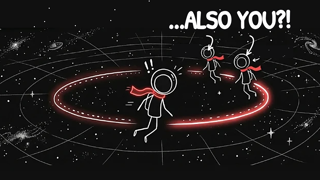
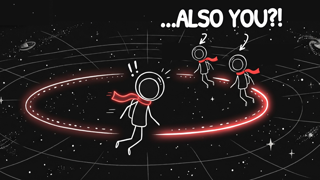
Ep7 backup thumbnail G final from the full-res original
Claude-Session: https://claude.ai/code/session_01QZBGd8qH4EfV1MNE2nHfnB

diff --git a/thumbnails-source/also_you_label.html b/thumbnails-source/also_you_label.html
@@ -3,6 +3,6 @@
 const c=document.getElementById('c'),x=c.getContext('2d');const img=new Image();img.src='clean.png';
 function T(s,X,Y,size,col){x.font=size+'px "PH"';x.textAlign='center';x.textBaseline='middle';x.lineJoin='round';x.lineWidth=size*0.22;x.strokeStyle='#101011';x.strokeText(s,X,Y);x.lineWidth=size*0.06;x.strokeStyle=col;x.strokeText(s,X,Y);x.fillStyle=col;x.fillText(s,X,Y);}
 function arrow(x1,y1,x2,y2){x.strokeStyle='#fff';x.lineWidth=7;x.lineCap='round';const mx=(x1+x2)/2+60,my=(y1+y2)/2-40;x.beginPath();x.moveTo(x1,y1);x.quadraticCurveTo(mx,my,x2,y2);x.stroke();const a=Math.atan2(y2-my,x2-mx);x.beginPath();x.moveTo(x2,y2);x.lineTo(x2-30*Math.cos(a-0.45),y2-30*Math.sin(a-0.45));x.moveTo(x2,y2);x.lineTo(x2-30*Math.cos(a+0.45),y2-30*Math.sin(a+0.45));x.stroke();}
-window.render=()=>{x.drawImage(img,0,0,1920,1080);T('...ALSO YOU?!',1380,130,150,'#fff');arrow(1500,215,1480,330);arrow(1240,215,1250,300);};
+window.render=()=>{x.drawImage(img,0,0,1920,1080);T('...ALSO YOU?!',1330,120,150,'#fff');arrow(1470,205,1440,300);arrow(1215,205,1200,262);};
 window.ready=new Promise(r=>{img.onload=()=>document.fonts.load('40px "PH"').then(r);});
 </script></body></html>
